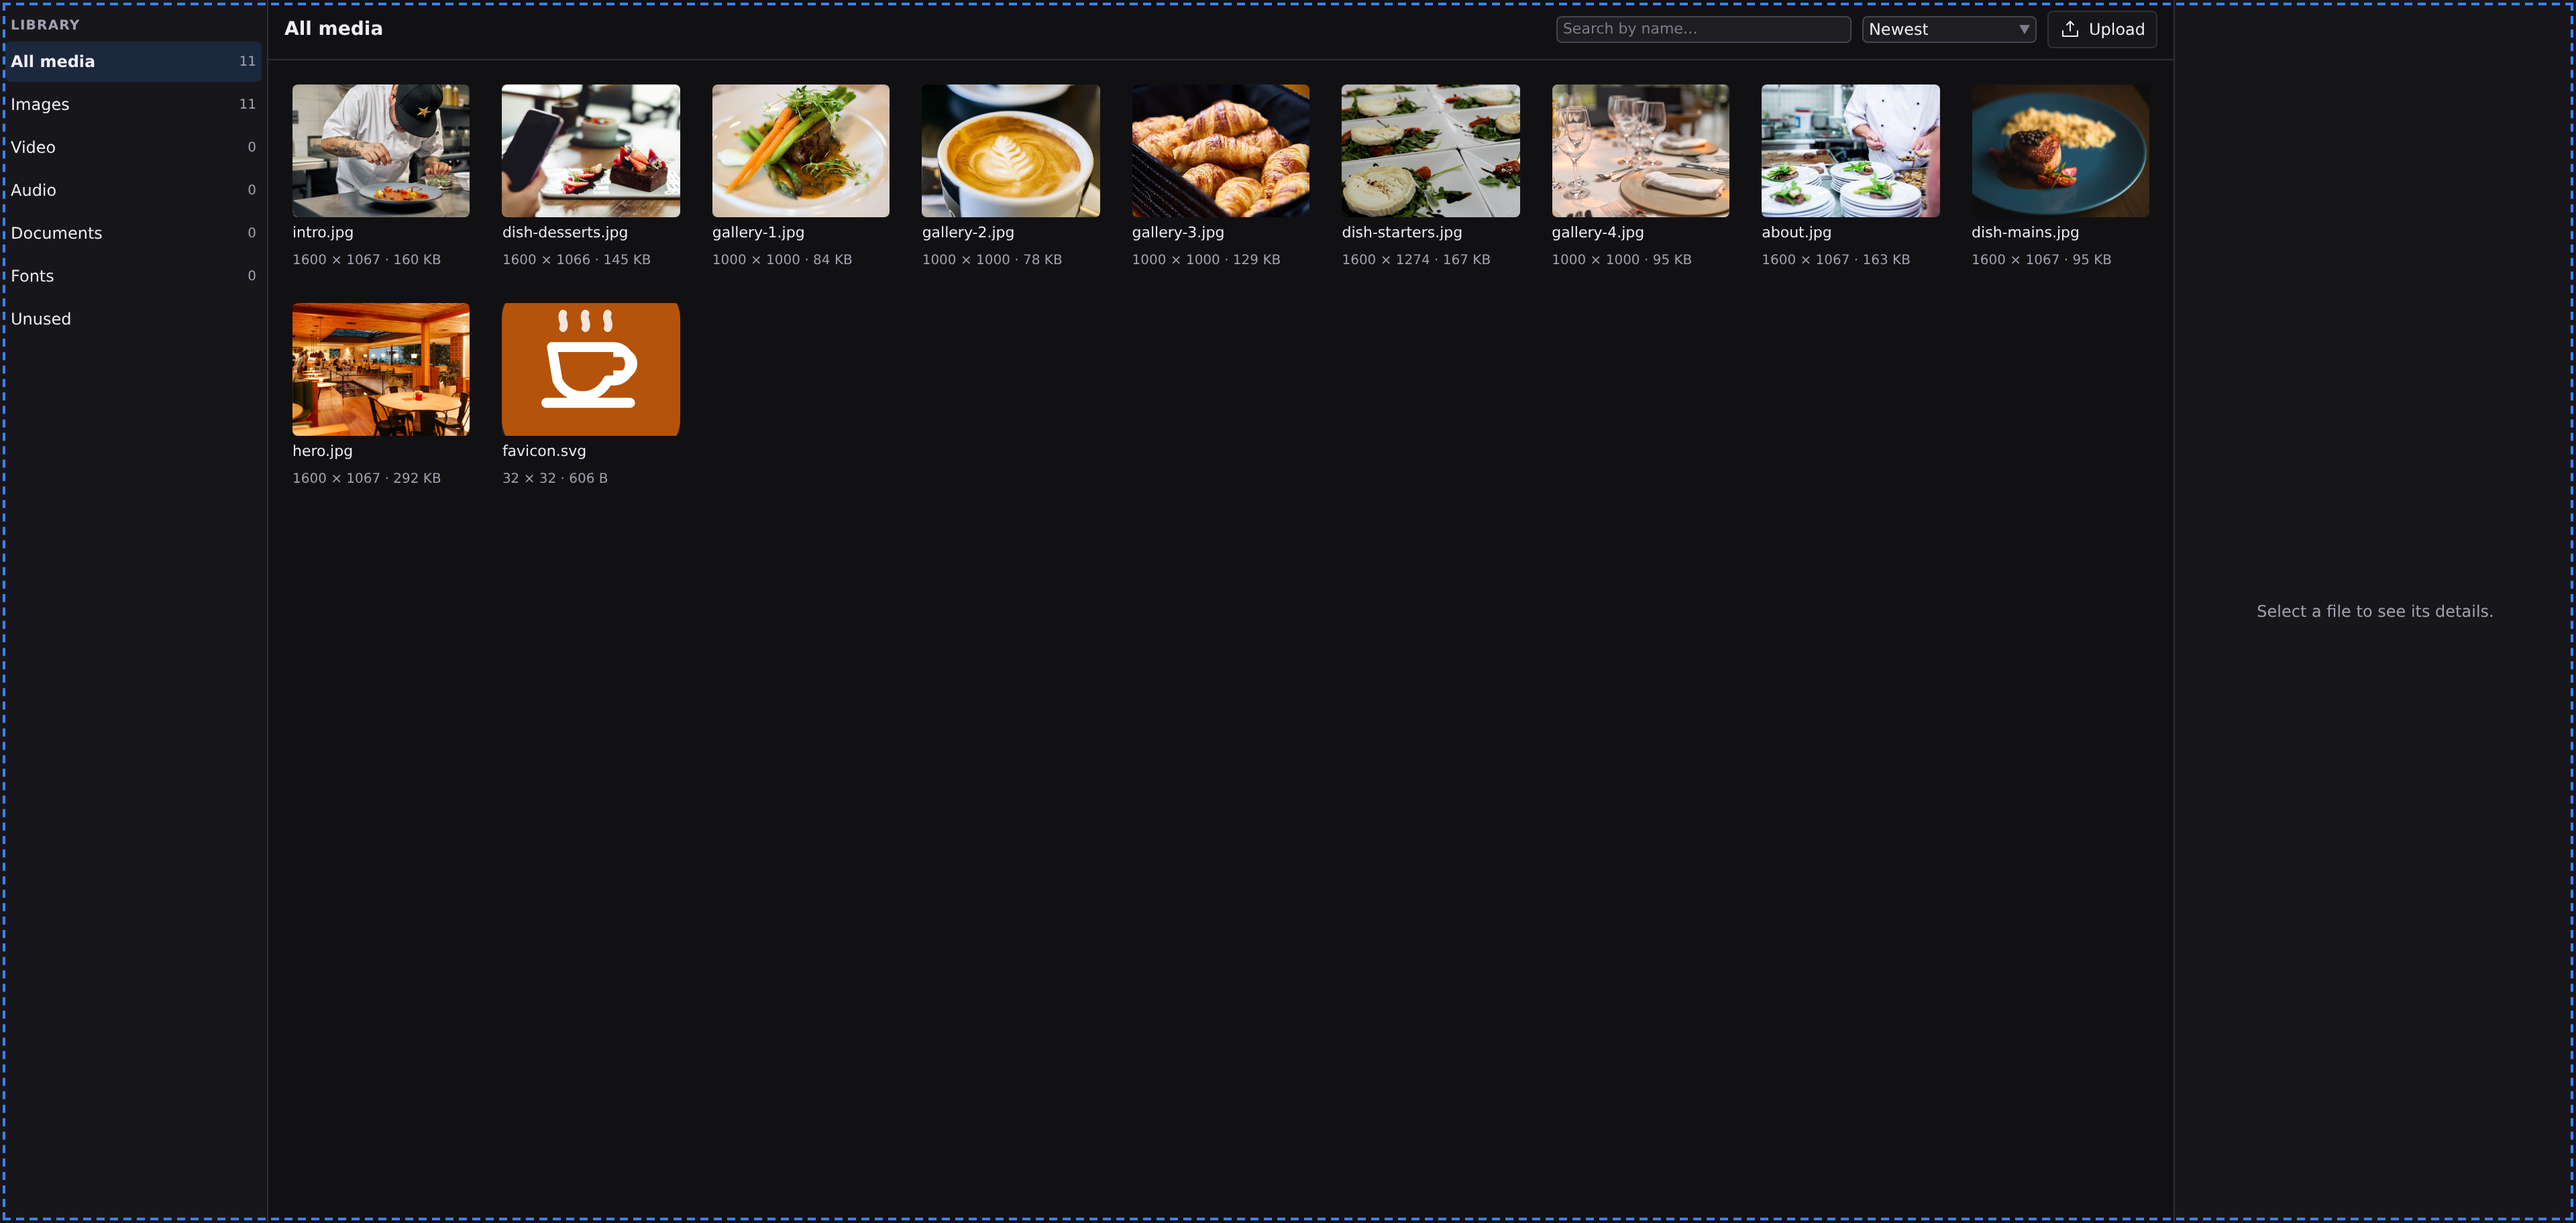
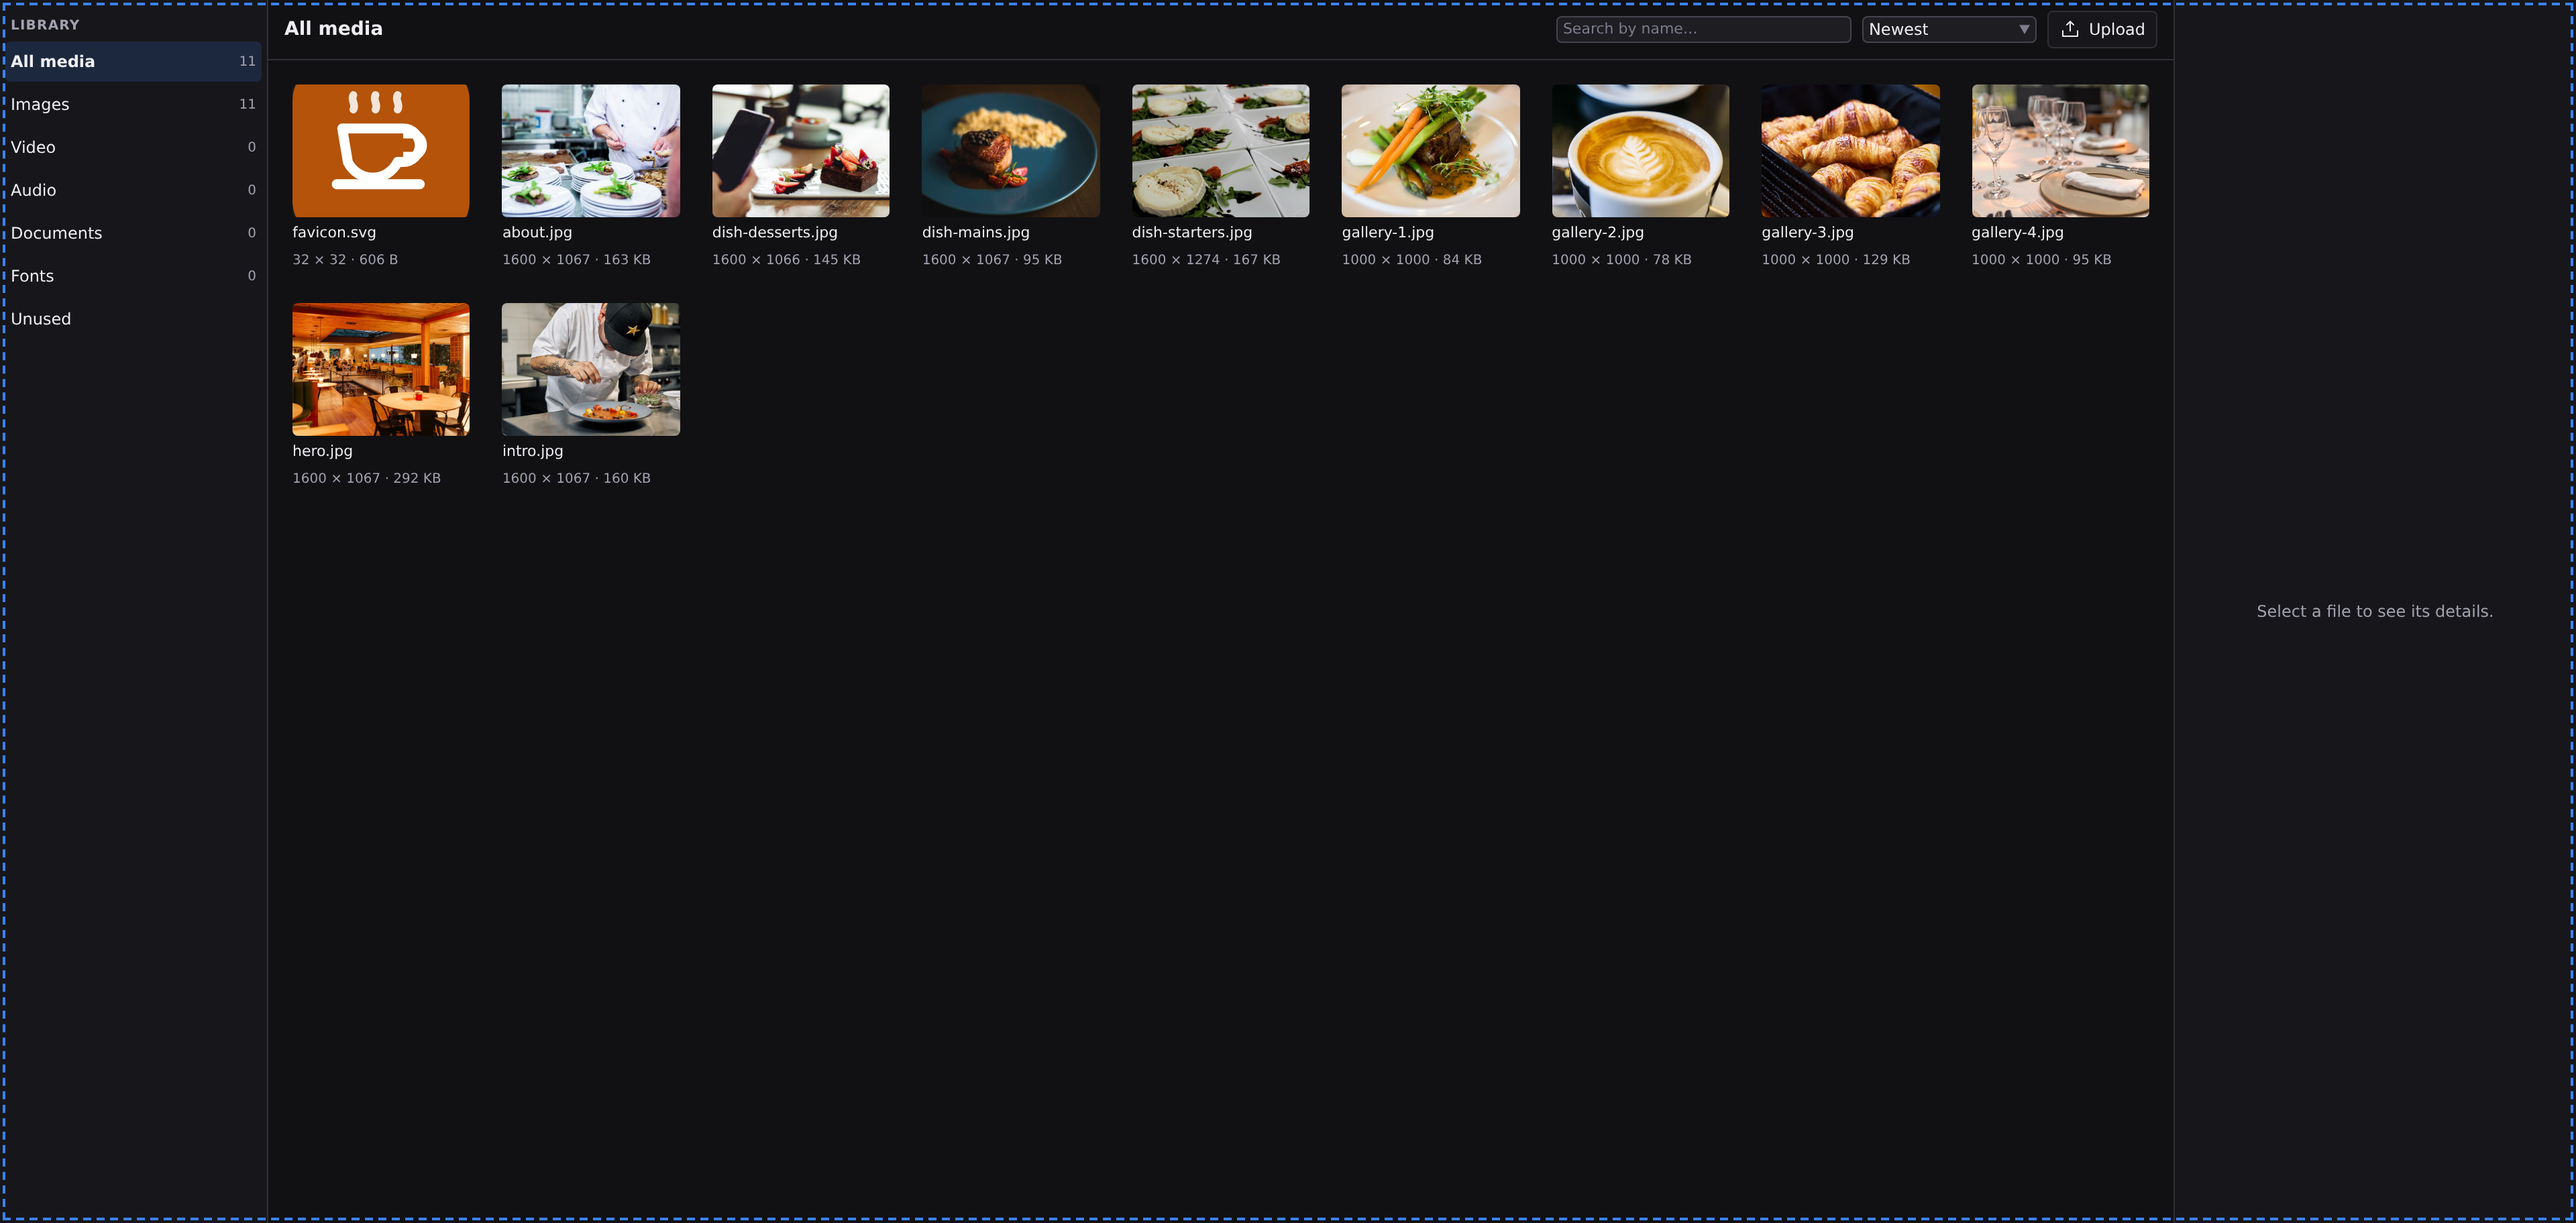
fix(studio): let the Style sidebar scroll again (#536)

Changed region(s): [[0.0938, 0.0625, 0.8438, 0.2188], [0.1875, 0.25, 0.2812, 0.4062]]

diff --git a/scripts/screenshots/lib/server.ts b/scripts/screenshots/lib/server.ts
@@ -25,7 +25,7 @@
  * built at capture time.
  */
 
-import { cp, mkdir, readdir, rm, stat, symlink, unlink, writeFile } from "node:fs/promises";
+import { cp, mkdir, readdir, rm, stat, symlink, unlink, utimes, writeFile } from "node:fs/promises";
 import { existsSync } from "node:fs";
 import { dirname, join, relative, resolve, sep } from "node:path";
 
@@ -215,6 +215,31 @@ async function stampTree(dir: string, base = dir): Promise<Map<string, FileStamp
   return stamps;
 }
 
+/**
+ * Give every file and directory under `dir` the same modified time.
+ *
+ * A copy's mtimes are the order its writes happened to land in, and a fresh clone's are no better,
+ * so they differ on every run. The app renders them: the Media library opens sorted Newest, and
+ * `media-upload` was rewritten by 17 of the lane's 21 commits in a fortnight, at 3 to 8 % of
+ * pixels, with nothing moved but which tile sat where. That is far past `DIFF_THRESHOLD`, because a
+ * swapped thumbnail is a large change and no threshold can tell it from a real one. Equal times
+ * hand the order to the app's own tie-break, by path, and a date the app prints stops moving too.
+ *
+ * Skips {@link NEVER_COPIED}, so a fixture's `.git` keeps its own times.
+ */
+async function pinMtimes(dir: string): Promise<void> {
+  for (const entry of await readdir(dir, { withFileTypes: true })) {
+    if (NEVER_COPIED.has(entry.name) || entry.isSymbolicLink()) {
+      continue;
+    }
+    const full = join(dir, entry.name);
+    if (entry.isDirectory()) {
+      await pinMtimes(full);
+    }
+    await utimes(full, OVERLAY_MTIME, OVERLAY_MTIME);
+  }
+}
+
 /** A stable, readable directory name for a repo-relative project path. */
 export function overlaySlug(project: string): string {
   return project.replaceAll(/[^\w.-]+/g, "-").replaceAll(/^-+|-+$/g, "");
@@ -252,6 +277,7 @@ async function materialiseCopy(source: string, dest: string): Promise<void> {
     },
     recursive: true,
   });
+  await pinMtimes(dest);
   await sealOverlayRepo(dest);
   const modules = join(source, "node_modules");
   if (existsSync(modules)) {
@@ -276,16 +302,17 @@ async function restoreTree(
   stamps: Map<string, FileStamp>,
 ): Promise<void> {
   const now = await stampTree(dest);
+  let moved = false;
   for (const [rel, stamp] of now) {
     const original = stamps.get(rel);
     if (!original) {
       await unlink(join(dest, rel));
+      moved = true;
       continue;
     }
     if (original.size !== stamp.size || original.mtimeMs !== stamp.mtimeMs) {
       await cp(join(source, rel), join(dest, rel));
-      const info = await stat(join(dest, rel));
-      stamps.set(rel, { mtimeMs: info.mtimeMs, size: info.size });
+      moved = true;
     }
   }
   for (const [rel] of stamps) {
@@ -294,8 +321,12 @@ async function restoreTree(
     }
     await mkdir(dirname(join(dest, rel)), { recursive: true });
     await cp(join(source, rel), join(dest, rel));
-    const info = await stat(join(dest, rel));
-    stamps.set(rel, { mtimeMs: info.mtimeMs, size: info.size });
+    moved = true;
+  }
+  /* A restored file left at the time of the restore would be the newest in the project, so one shot
+     that wrote it would reorder every later shot's library. Pinned, it matches its stamp again. */
+  if (moved) {
+    await pinMtimes(dest);
   }
 }
 
@@ -340,6 +371,9 @@ const OVERLAY_EXCLUDES = [".cache", "dist", "node_modules", "*.log"];
 
 /** The one date every overlay commit carries, so nothing derived from it can move between runs. */
 const OVERLAY_EPOCH = "2026-01-01T00:00:00Z";
+
+/** {@link OVERLAY_EPOCH} as a file time, for {@link pinMtimes}. */
+const OVERLAY_MTIME = new Date(OVERLAY_EPOCH);
 
 /**
  * Turn a freshly copied overlay into a self-contained repository with a CLEAN status.
@@ -398,6 +432,7 @@ export async function materialiseGitFixture(source: string, dest: string): Promi
   for (const path of recipe.dirty?.deleted ?? []) {
     await rm(join(dest, path), { force: true });
   }
+  await pinMtimes(dest);
 }
 
 // ─── The one entry point ──────────────────────────────────────────────────────

diff --git a/scripts/screenshots/lib/server.test.ts b/scripts/screenshots/lib/server.test.ts
@@ -1,5 +1,5 @@
 import { afterEach, describe, expect, test } from "bun:test";
-import { lstat, mkdtemp, mkdir, rm, utimes, writeFile } from "node:fs/promises";
+import { lstat, mkdtemp, mkdir, rm, stat, utimes, writeFile } from "node:fs/promises";
 import { existsSync } from "node:fs";
 import { tmpdir } from "node:os";
 import { dirname, join, resolve } from "node:path";
@@ -24,6 +24,15 @@ async function run(cwd: string, args: string[]): Promise<string> {
   }
   return out;
 }
+
+/** The modified time of each of `paths` under `root`, in the order given. */
+async function mtimesOf(root: string, paths: string[]): Promise<number[]> {
+  const stats = await Promise.all(paths.map((path) => stat(join(root, path))));
+  return stats.map((info) => info.mtimeMs);
+}
+
+/** The time every overlay file carries, spelled out so the test is not reading the code's own. */
+const PINNED = Date.parse("2026-01-01T00:00:00Z");
 
 const roots: string[] = [];
 
@@ -171,6 +180,58 @@ describe("overlayProject", () => {
     );
   });
 
+  test("every copied file carries one modified time, whatever the source's were", async () => {
+    const root = await repoWithProject({
+      "project.json": "{}\n",
+      "public/a.jpg": "a",
+      "public/b.jpg": "b",
+    });
+    await utimes(join(root, "starter/public/a.jpg"), new Date(1000), new Date(1000));
+    await utimes(join(root, "starter/public/b.jpg"), new Date(9_000_000), new Date(9_000_000));
+    forgetOverlays();
+    const overlay = await overlayProject(root, "starter");
+
+    // The exact date, not merely equal times: a fast copy on a coarse-clocked filesystem lands
+    // Several writes in one tick, so "all equal" can pass with nothing pinned at all. The folder
+    // Counts too, because the Files listing reports a directory's modified time as well.
+    expect(
+      await mtimesOf(overlay.root, ["public/a.jpg", "public/b.jpg", "project.json", "public"]),
+    ).toEqual([PINNED, PINNED, PINNED, PINNED]);
+  });
+
+  test("a shot's write, once reset, does not make that file the newest", async () => {
+    const root = await repoWithProject({
+      "project.json": "{}\n",
+      "public/a.jpg": "a",
+      "public/b.jpg": "b",
+    });
+    forgetOverlays();
+    const overlay = await overlayProject(root, "starter");
+
+    await writeFile(join(overlay.root, "public/a.jpg"), "edited");
+    await rm(join(overlay.root, "public/b.jpg"));
+    await writeFile(join(overlay.root, "public/c.jpg"), "new");
+    await overlay.reset();
+
+    expect(await mtimesOf(overlay.root, ["public/a.jpg", "public/b.jpg"])).toEqual([
+      PINNED,
+      PINNED,
+    ]);
+    expect(await Bun.file(join(overlay.root, "public/a.jpg")).text()).toBe("a");
+    expect(existsSync(join(overlay.root, "public/c.jpg"))).toBe(false);
+  });
+
+  test("a write the same size as the original is still seen and undone", async () => {
+    const root = await repoWithProject({ "project.json": "{}\n", "public/a.jpg": "a" });
+    forgetOverlays();
+    const overlay = await overlayProject(root, "starter");
+
+    await writeFile(join(overlay.root, "public/a.jpg"), "z");
+    await overlay.reset();
+
+    expect(await Bun.file(join(overlay.root, "public/a.jpg")).text()).toBe("a");
+  });
+
   test("reset undoes a modification, a creation and a deletion", async () => {
     const root = await repoWithProject({
       "pages/index.md": "original\n",
@@ -309,6 +370,11 @@ describe("materialiseGitFixture", () => {
       " D pages/about.md",
       " M pages/index.md",
       "?? components/sc-cta.json",
+    ]);
+    // Pinned after the dirty layer is laid down, and without hiding any of it from `status` above.
+    expect(await mtimesOf(dest, ["pages/index.md", "components/sc-cta.json"])).toEqual([
+      PINNED,
+      PINNED,
     ]);
   });
 

diff --git a/packages/studio/tests/right-panel.test.ts b/packages/studio/tests/right-panel.test.ts
@@ -668,12 +668,50 @@ describe("how the dock hides what is not showing", () => {
     const dock = (await Bun.file(
       new URL("../src/surfaces/inspector-dock.json", import.meta.url),
     ).json()) as { style: Record<string, Record<string, string>> };
-    for (const rule of ['& [part="panel"][hidden]', '& [part="panel-body"][data-active="false"]']) {
+    for (const rule of [
+      '& > [part="panel"][hidden]',
+      '& [part="panel-body"][data-active="false"]',
+    ]) {
       const declared = dock.style[rule]!;
       expect(declared["contentVisibility"]).toBe("hidden");
       expect(declared["visibility"]).toBe("hidden");
       expect(declared["flex"]).toBe("0 0 0");
       expect(declared["display"]).not.toBe("none");
+    }
+  });
+});
+
+/* The leaves mount in the dock's own light DOM, so a bare `[part="panel"]` in its stylesheet also
+   reaches the Style leaf's root and a colour field's picker. That rule says `overflow: hidden`: on
+   the Style root it clipped the rows, the scroller above it had nothing to scroll, and every
+   property past the fold was unreachable. happy-dom does no layout, so what is held is which
+   elements the rule selects, against the real mounted dock. */
+describe("the dock's tab panel rules stop at its own tab panels", () => {
+  test("a leaf's own part=panel is not one of them", async () => {
+    // SAFETY: a surface document's `style` is an object of rule objects whose values are strings.
+    const dock = (await Bun.file(
+      new URL("../src/surfaces/inspector-dock.json", import.meta.url),
+    ).json()) as { style: Record<string, Record<string, string>> };
+    const rules = Object.keys(dock.style).filter((key) => key.includes('[part="panel"]'));
+    expect(rules.length).toBeGreaterThan(0);
+
+    resetWorkspaceWithTab();
+    mount(makeCtx());
+    setInspectorTab("style");
+    await flush(4);
+    const leafRoot = document.createElement("div");
+    leafRoot.setAttribute("part", "panel");
+    expect(visibleBodies().map((body) => body.dataset.tab)).toEqual(["style"]);
+    visibleBodies()[0]?.append(leafRoot);
+
+    expect(panels().length).toBe(INSPECTOR_STRIP.length);
+    for (const rule of rules) {
+      expect(leafRoot.matches(rule.replace("&", '[part="inspector-dock"]'))).toBe(false);
+    }
+    const panelRule = '[part="inspector-dock"] > [part="panel"]';
+    expect(rules).toContain('& > [part="panel"]');
+    for (const panel of panels()) {
+      expect(panel.matches(panelRule)).toBe(true);
     }
   });
 });

diff --git a/packages/studio/tests/properties-panel.test.ts b/packages/studio/tests/properties-panel.test.ts
@@ -913,9 +913,13 @@ describe("what Content no longer draws", () => {
     if (!(openLogic instanceof HTMLElement)) {
       throw new TypeError("the repeating list offered no Open Logic action");
     }
+    /* The dock is reached through a lazy import (Content must not statically depend on its host).
+       Loaded first, because a cold load is not a number of turns: on a cold disk it yields to the
+       event loop while it reads, so a slow runner spent all 20 below with the import still open and
+       failed this test on a commit whose source had just passed. Once loaded, the import settles
+       in microtasks and what is left to prove is that the click asks for the Logic tab. */
+    await import("../src/panels/right-panel");
     openLogic.click();
-    // The dock is reached through a lazy import (Content must not statically depend on its host),
-    // So the tab lands a few turns later.
     for (let i = 0; i < 20 && tab.session.ui.rightTab !== "events"; i++) {
       await flush(1);
     }

diff --git a/scripts/screenshots/README.md b/scripts/screenshots/README.md
@@ -188,8 +188,11 @@ Two signatures separate noise from change, and 1 % is where they part. **Noise r
 | body copy re-rendering        | `mode-manage`, `media-upload` | a webfont race the frame predicate could not see (`frameBlockers` in shot.ts) |
 | a cell outline present/absent | `data-grid`                   | the grid called itself settled on the range MODEL (`grid-view.ts`'s probe)    |
 | rows swapping places          | `blog-grid`                   | an unsorted directory listing (`byPathOrder` in `studio-api.ts`)              |
+| tiles swapping places         | `media-upload`                | the overlay copy's own file times, under Newest (`pinMtimes` in `server.ts`)  |
 
 The font one is worth stating in full, because the same shape will recur. CSS font loading is **lazy**: a declared `@font-face` is fetched when layout first matches text to it, not when the stylesheet parses. So a frame passes through a state where the stylesheet has arrived, nothing is in flight, no face reports `loading`, and `document.fonts.status` reads `"loaded"` over a set that has not begun, and the runner declared that quiet while the body copy was still in the fallback face. The evidence is three-sided and none of it needed a browser: the changed pixels are the body copy while every heading is byte-identical; the only two churning projects (`restaurant`, `real-estate`) are the ones that fetch Google Fonts, each declaring one display family and one body family; and the fixture-backed shots, which fetch no remote font, never churned on text at all. `frameBlockers` now calls `load()` on any face still `unloaded`, which moves it to `loading` synchronously and so blocks the very poll that found it.
+
+The tile band arrived after those numbers and broke their first signature: it repeats like noise but is large like a change, at 3 to 8 % across all 17 rewrites of `media-upload` in the fortnight it was measured (17 of the lane's 21 commits). The threshold cannot absorb that and should not try, since a swapped thumbnail is a genuinely large pixel change. The Media library opens sorted Newest, and the copy's modified times were the order its writes landed in, so each run photographed a different order. `pinMtimes` gives every overlay file one time, which hands the order to the app's own tie-break by path. Pinned at all three places an overlay is written (the copy, a reset, a git fixture), three captures came out byte-identical, where four captures with the copy's pin removed came out as four different images. When a shot churns, compare the two pictures before reaching for the threshold: this one read as flaky detection and was a real, reproducible difference in the input.
 
 This trade gives up the ~0.1 % status-bar regression 0.0002 was sized to catch, deliberately. At 0.0002 the gate reported that regression alongside 152 other rewrites in ten days, so nobody read it, and `docs/images` grew to 90 % of the repository's pack: 567 of 634 MiB, 1,401 blob versions of 64 files. A gate nobody reads catches nothing either.
 
